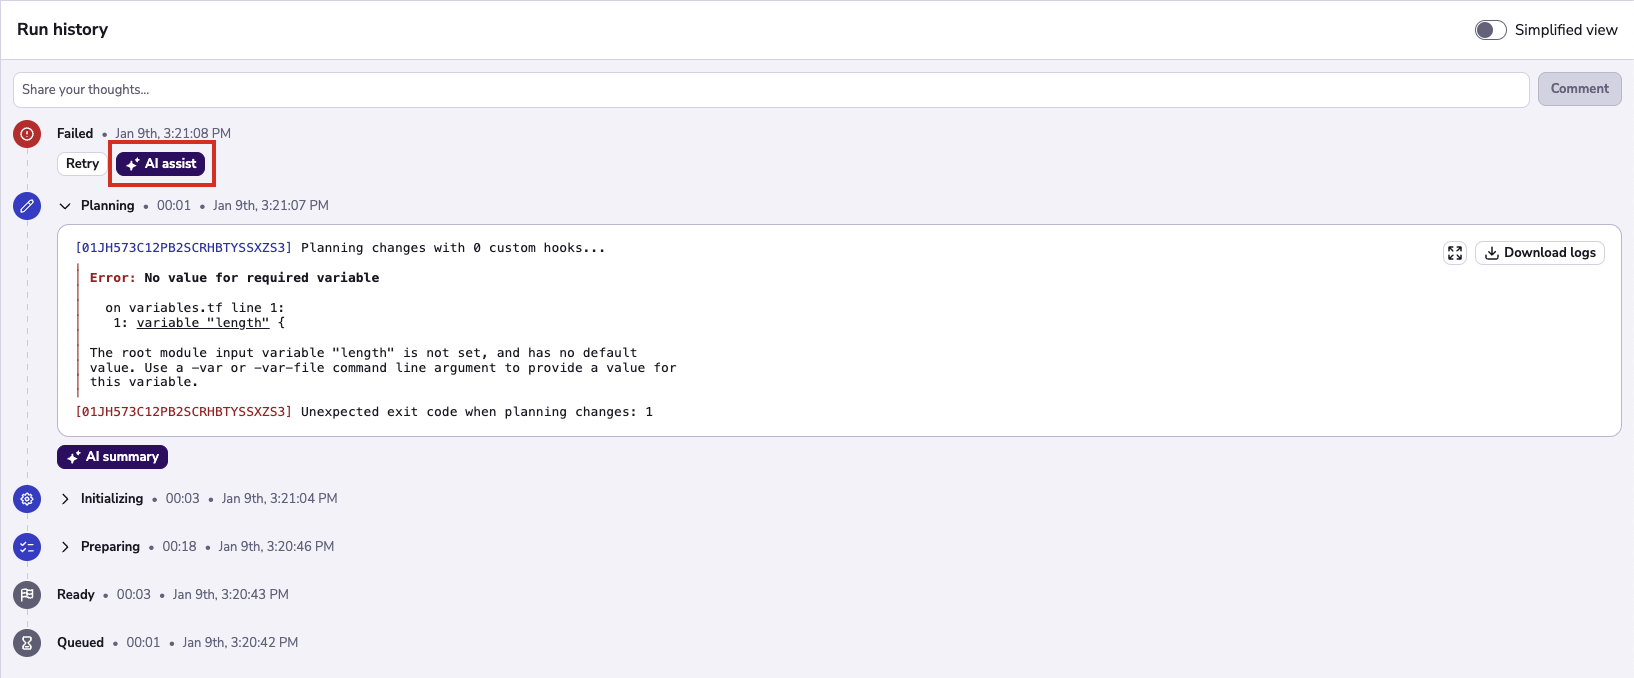
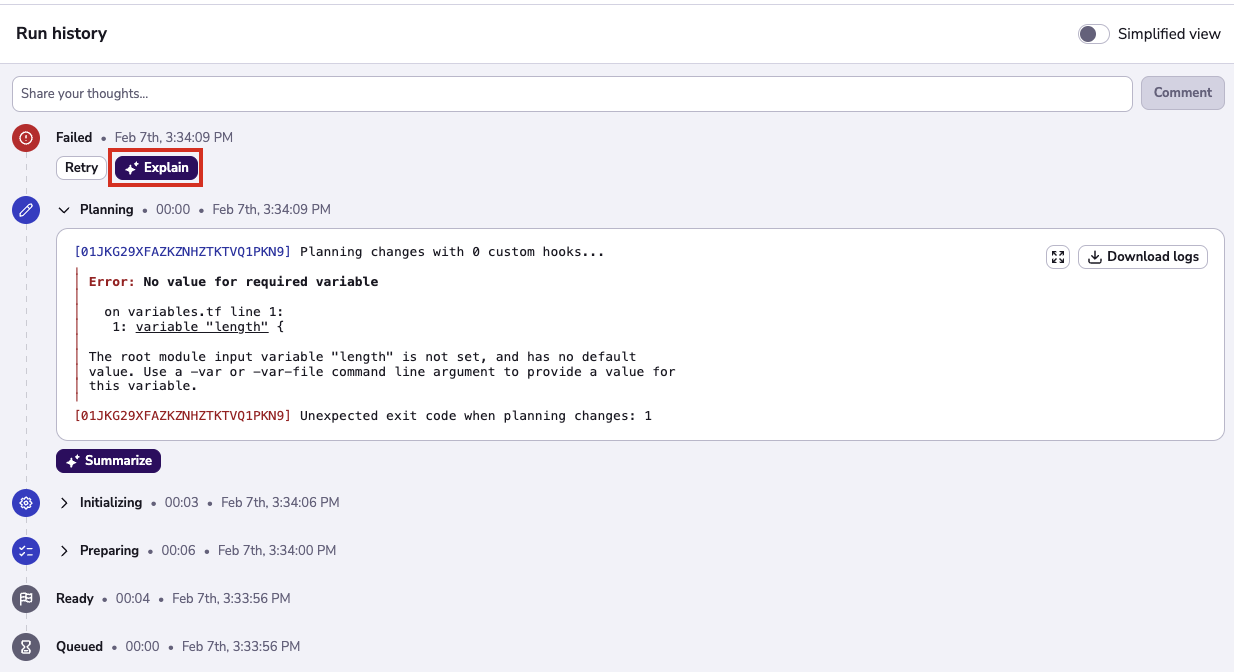
docs: update ai docs

diff --git a/docs/concepts/run/ai.md b/docs/concepts/run/ai.md
@@ -3,20 +3,20 @@
 !!! warning
     This feature is still in beta testing. It will be available soon to Enterprise plan.
 
-Spacelift now provides a way to harvest the power of AI to summarize failed runs. The clicking the AI summary button will send the logs of the failed run to an LLM and provide useful insights on what went wrong.
+Spacelift now provides a way to harvest the power of AI to summarize failed runs. By clicking the `Explain` button in the runs history page, Saturnhead will use an advanced LLM to digest the logs of your failed runs and provide useful insights into what went wrong.
 
-## Enabling AI features
+## Enabling Saturnhead features
 
 !!! info
     This feature is only available to Enterprise plan. Please check out our [pricing page](https://spacelift.io/pricing) for more information.
 
-AI features have to be enabled by an admin user. Admins can locate the AI settings screen in `Organization settings > Artificial Intelligence`. When enabling the AI assist features for the first time, you'll be asked to accept the Terms and Conditions. Once accepted, all the users with write access to runs will be able to ask for assistance on failed runs.
+Saturnhead features have to be enabled by an admin user. Admins can locate the settings screen in `Organization settings > Artificial Intelligence`. When enabling the Saturnhead Assist features for the first time, you'll be asked to accept the Terms and Conditions. Once accepted, all the users with write access to runs will be able to ask for assistance on failed runs.
 
 ![](../../assets/screenshots/run/settings-ai-assist.png)
 
 ## AI empowered run summaries
 
-After enabling the feature, the users with write access to the runs will be able to summarize failed executions.
+After enabling the feature, the users **with write** access to the runs will be able to summarize failed executions.
 
 The results of a summary change on each case due to the LLM being non-deterministic, but they generally provide the following information:
 
@@ -24,16 +24,16 @@ The results of a summary change on each case due to the LLM being non-determinis
 - Detailed information on what went wrong
 - Code snippet suggestions to help solve the issue.
 
-There are 2 types of summary: **Stage based** and **Run based**.
+There are 2 types of summary: **Summarize** and **Explain**.
 
-- **Phase based** summaries are based on the output logs of the current phase. They're faster to execute and provide guidance on what went wrong in a specific step.
+- **Summarize** uses the output logs of the current phase to generate a human-readable summary. They're faster to execute and provide guidance on what went wrong in a specific step.
 
 ![](../../assets/screenshots/run/trigger-step-summary.png)
 
-- You can also execute a **Run based** summary. This summary uses the logs of the "Initialize", "Plan" and "Apply" phases combined and is ideal for catching issues that span across multiple stages. This summary is slower to run, but it is very helpful when dealing with more complex issues.
+- By clicking **Explain**, Saturnhead will use the logs of the "Initialize", "Plan" and "Apply" phases combined to generate a global summary. This is ideal for catching issues that span across multiple phases. This summary is slower to run, but it is very helpful when dealing with more complex issues.
 
 ![](../../assets/screenshots/run/trigger-run-summary.png)
 
-Once the LLM has analysed the results of the run, it will display a message with the cause of the issue and potential fix solutions for the problem.
+Once Saturnhead has analyzed the results of the run, it will display a message with the cause of the issue and potential fix solutions for the problem.
 
 ![](../../assets/screenshots/run/run-summarization-complete.png)
